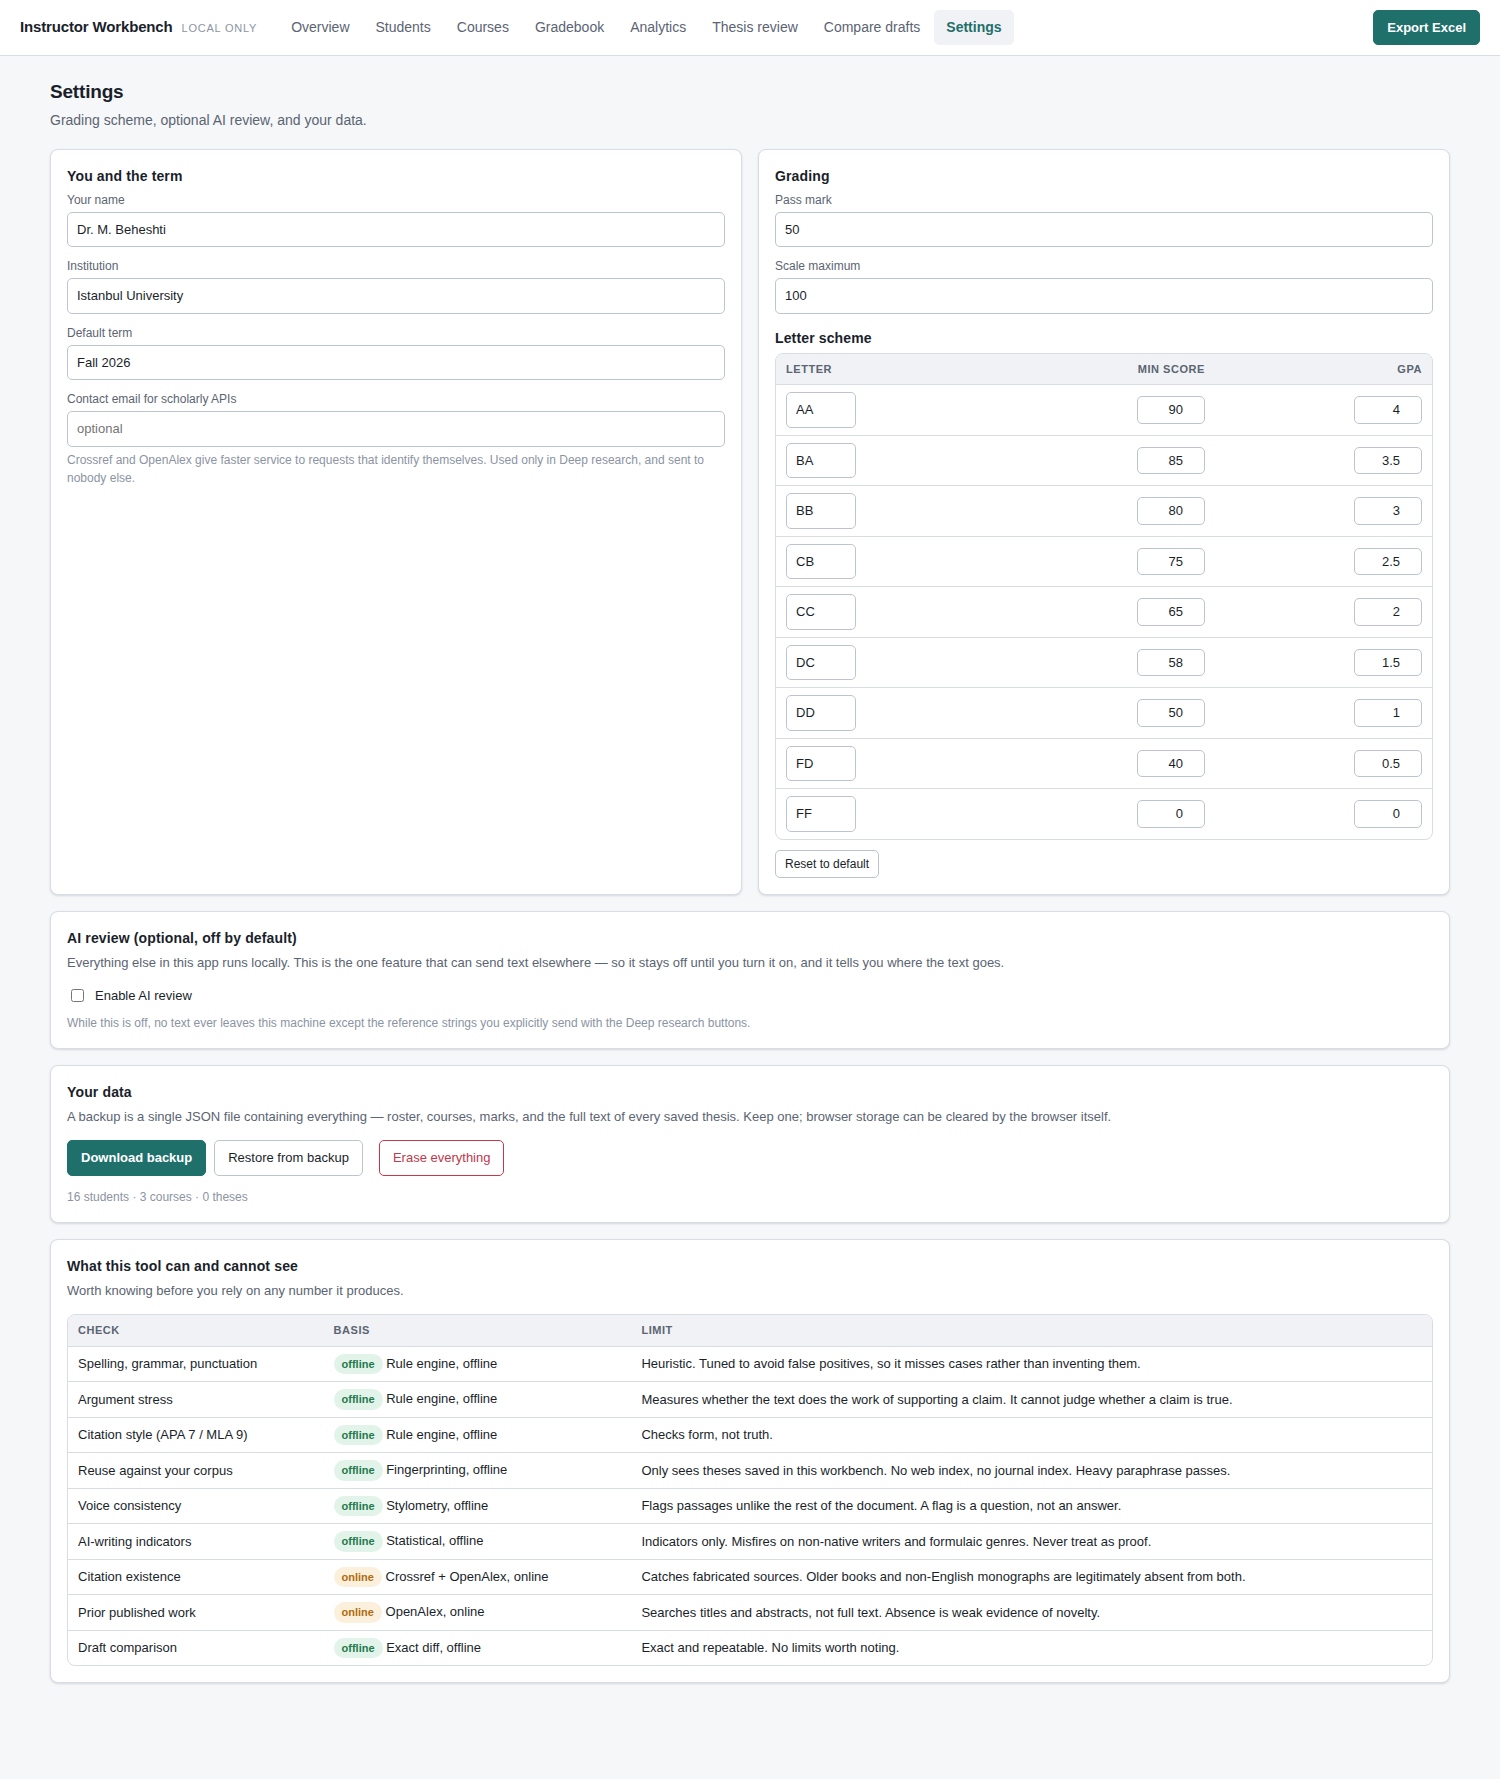
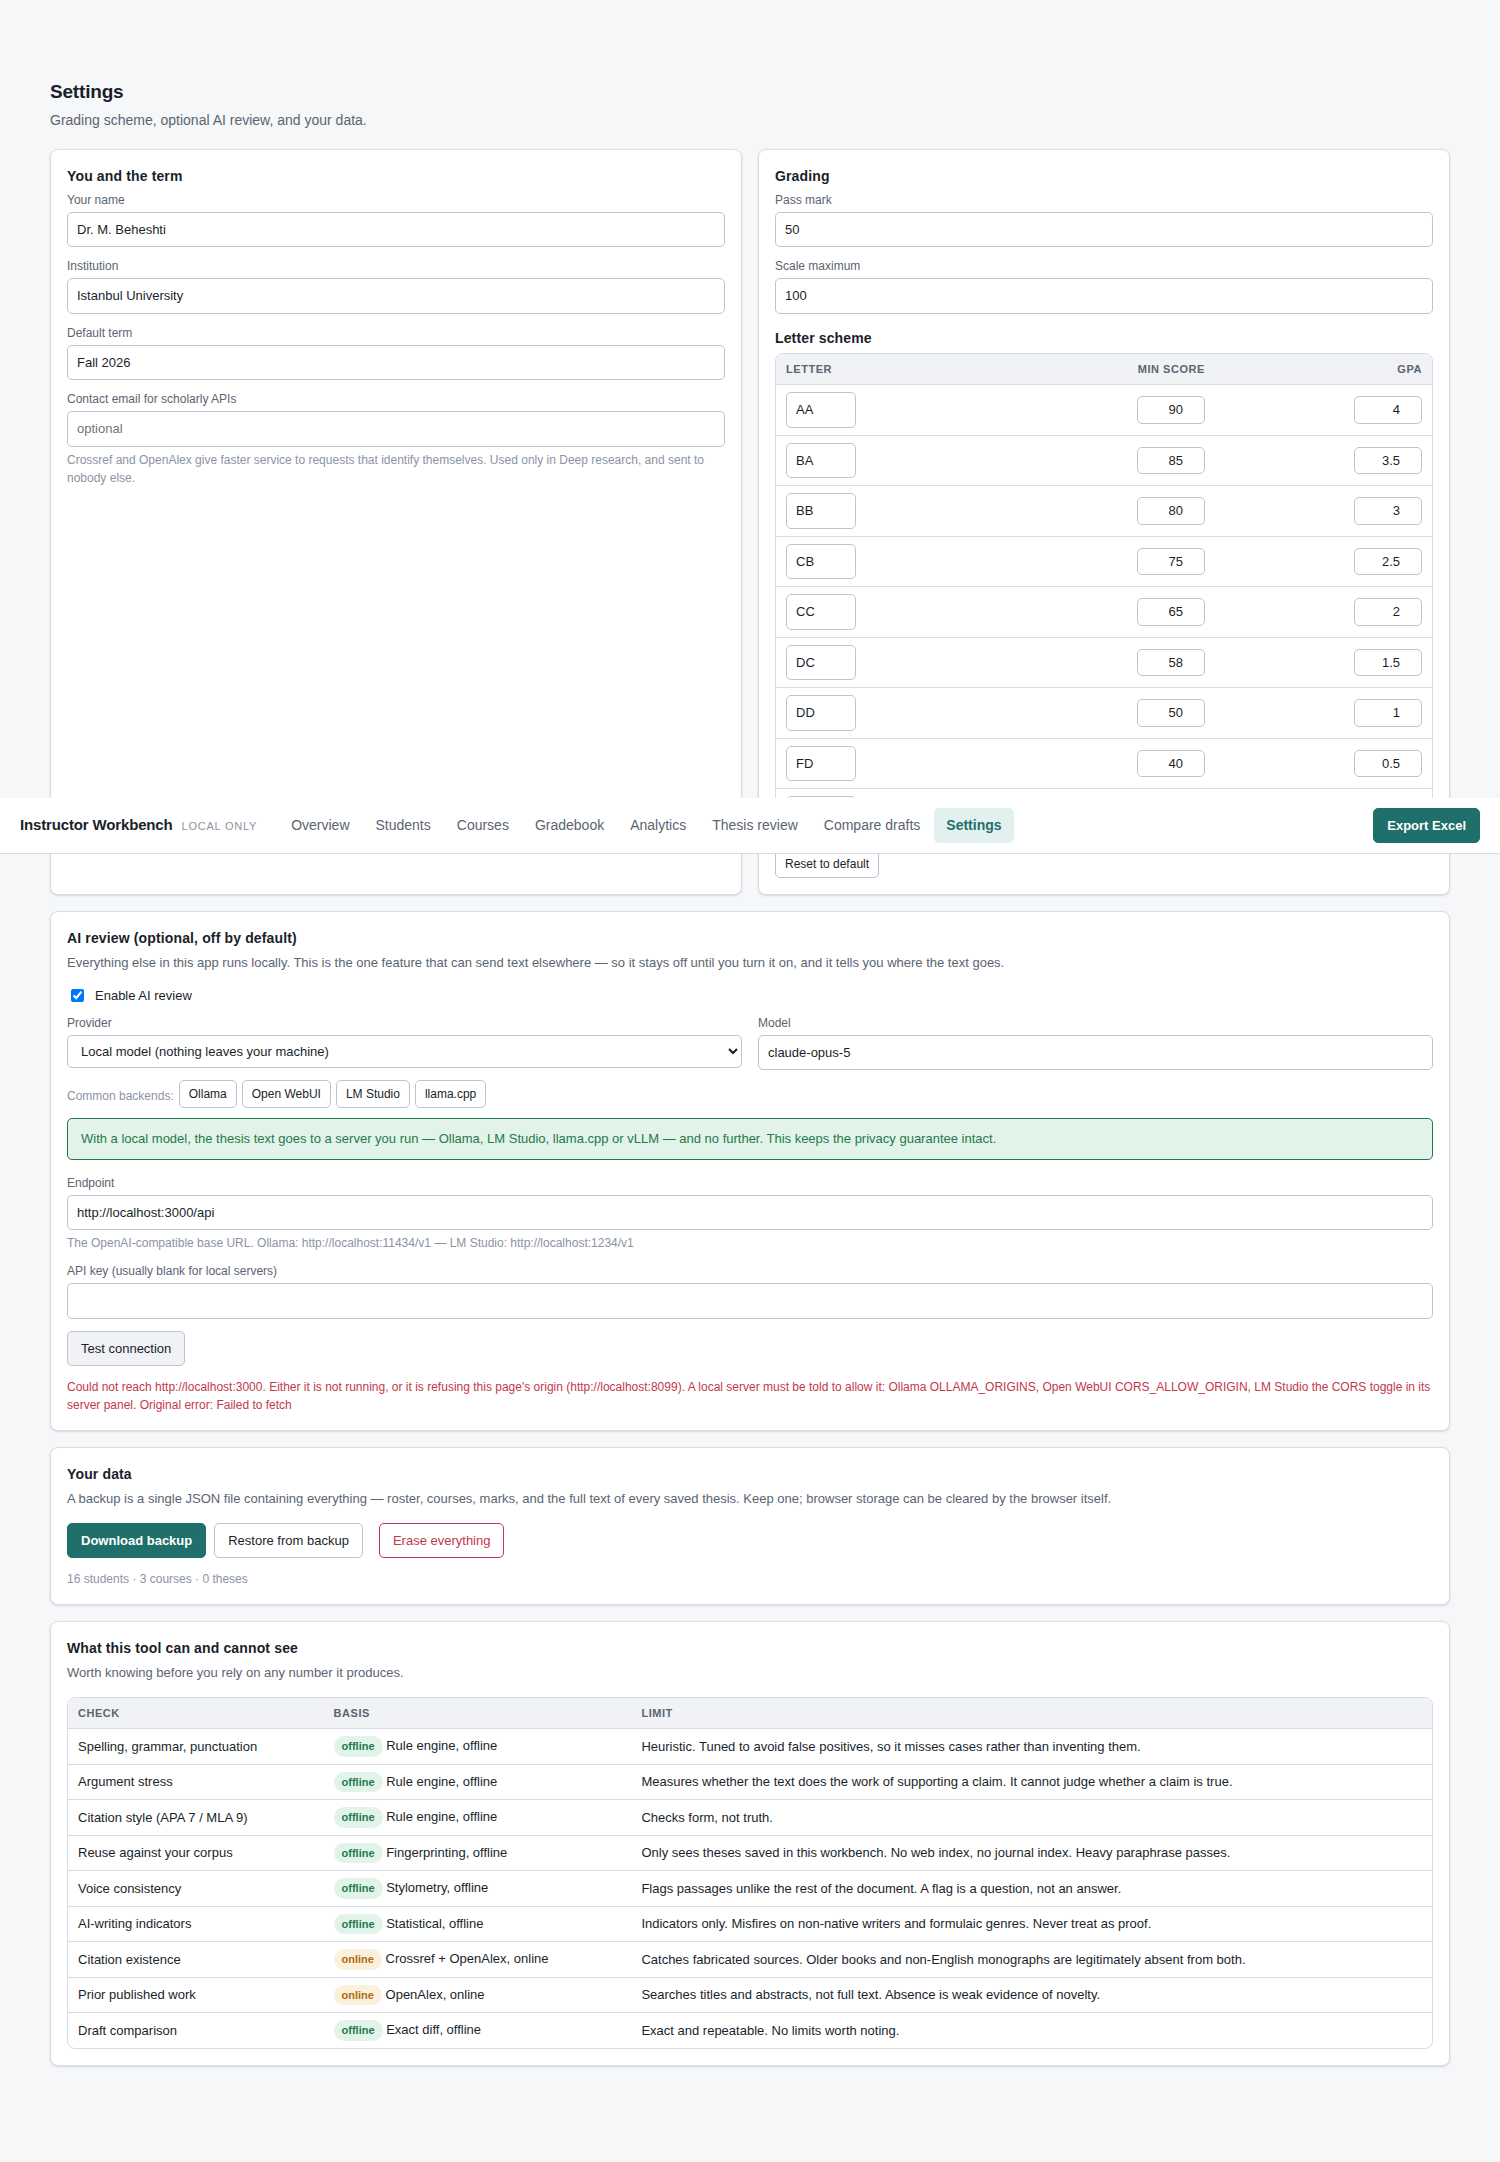
Add local-model presets and a connection test for AI review
Point-and-click endpoints for Ollama, Open WebUI, LM Studio and llama.cpp,
since each mounts its OpenAI-compatible API at a different base and getting
that wrong is the usual first failure.

Adds testConnection(), reachable from a button in Settings. It lists the
model names the server will actually accept, and distinguishes the two
failures that look identical in a browser: a server that is not running,
and one that is running but refusing this page's origin. A cross-origin
block surfaces only as "Failed to fetch" with no status, so the error now
names the origin to allow and the setting to allow it with
(OLLAMA_ORIGINS, CORS_ALLOW_ORIGIN, LM Studio's CORS toggle).

README documents the endpoints and CORS setup, and notes that Open WebUI
is useful here as a model installer and manager rather than as a feature —
pointing at Ollama directly is one fewer moving part.

Claude-Session: https://claude.ai/code/session_019SeAANDxviPXzQ4FvS58r7

diff --git a/instructor/js/analysis/ai.js b/instructor/js/analysis/ai.js
@@ -56,6 +56,102 @@ Respond with JSON only, no prose outside it, in exactly this shape:
   ]
 }`;
 
+/*
+ * Probe the configured backend and report what actually answered.
+ *
+ * Worth having because every local runtime mounts its OpenAI-compatible
+ * surface at a different base — Ollama at /v1, LM Studio at /v1, Open WebUI
+ * at /api — and the failure that matters most (a CORS rejection) surfaces in
+ * the browser as an opaque "Failed to fetch" with no status code. Naming that
+ * case explicitly saves an afternoon.
+ */
+export async function testConnection(settings, { signal } = {}) {
+  const ai = settings.ai || {};
+  if (!ai.enabled) throw new Error('AI review is switched off.');
+
+  if (ai.provider !== 'local') {
+    if (!ai.apiKey) throw new Error('No API key set.');
+    const res = await fetch(ANTHROPIC_URL, {
+      method: 'POST',
+      signal,
+      headers: {
+        'content-type': 'application/json',
+        'x-api-key': ai.apiKey,
+        'anthropic-version': ANTHROPIC_VERSION,
+        'anthropic-dangerous-direct-browser-access': 'true'
+      },
+      body: JSON.stringify({
+        model: ai.model || DEFAULT_MODEL,
+        max_tokens: 16,
+        messages: [{ role: 'user', content: 'Reply with the single word: ready' }]
+      })
+    }).catch((err) => { throw networkHint(err, ANTHROPIC_URL); });
+    if (!res.ok) throw new Error(await describeHttpError(res));
+    const data = await res.json();
+    return { ok: true, detail: `Claude API reachable — answered as ${data.model || ai.model}.` };
+  }
+
+  const base = String(ai.endpoint || '').replace(/\/+$/, '');
+  if (!base) throw new Error('No endpoint set.');
+
+  /* Ask for the model list first: it is cheap, and it tells the instructor
+     which model names this server will actually accept. */
+  let models = [];
+  try {
+    const listUrl = `${base.replace(/\/chat\/completions$/, '')}/models`;
+    const res = await fetch(listUrl, {
+      signal,
+      headers: ai.apiKey ? { authorization: `Bearer ${ai.apiKey}` } : {}
+    });
+    if (res.ok) {
+      const data = await res.json();
+      models = (data.data || data.models || []).map((m) => m.id || m.name).filter(Boolean);
+    }
+  } catch { /* not fatal — some servers do not expose /models */ }
+
+  const url = /\/chat\/completions$/.test(base) ? base : `${base}/chat/completions`;
+  const res = await fetch(url, {
+    method: 'POST',
+    signal,
+    headers: {
+      'content-type': 'application/json',
+      ...(ai.apiKey ? { authorization: `Bearer ${ai.apiKey}` } : {})
+    },
+    body: JSON.stringify({
+      model: ai.model || models[0] || 'llama3.1',
+      messages: [{ role: 'user', content: 'Reply with the single word: ready' }],
+      stream: false
+    })
+  }).catch((err) => { throw networkHint(err, url); });
+
+  if (!res.ok) throw new Error(await describeHttpError(res));
+  const data = await res.json();
+  const reply = data.choices && data.choices[0] && data.choices[0].message && data.choices[0].message.content;
+  if (!reply) throw new Error('The server answered, but with no message content. Check that the model name is one it actually serves.');
+
+  return {
+    ok: true,
+    models,
+    detail: `Answered from ${url}${models.length ? ` · ${models.length} model(s) available: ${models.slice(0, 6).join(', ')}${models.length > 6 ? '…' : ''}` : ''}`
+  };
+}
+
+/*
+ * A cross-origin block and a dead server are the same TypeError in the
+ * browser, so guess from what we know: if the host is reachable at all, the
+ * usual cause is that it has not been told to allow this page's origin.
+ */
+function networkHint(err, url) {
+  if (err.name === 'AbortError') return err;
+  let host = url;
+  try { host = new URL(url).origin; } catch { /* keep the raw string */ }
+  return new Error(
+    `Could not reach ${host}. Either it is not running, or it is refusing this page's origin (${location.origin}). ` +
+    'A local server must be told to allow it: Ollama OLLAMA_ORIGINS, Open WebUI CORS_ALLOW_ORIGIN, LM Studio the CORS toggle in its server panel. ' +
+    `Original error: ${err.message}`
+  );
+}
+
 export function isConfigured(settings) {
   const ai = settings.ai || {};
   if (!ai.enabled) return false;

diff --git a/instructor/js/views/settings.js b/instructor/js/views/settings.js
@@ -4,7 +4,7 @@ import {
 } from '../store.js';
 import { DEFAULT_LETTER_SCHEME } from '../stats.js';
 import { downloadText } from '../io/files.js';
-import { DEFAULT_MODEL } from '../analysis/ai.js';
+import { DEFAULT_MODEL, testConnection } from '../analysis/ai.js';
 
 export default function renderSettings(root, ctx) {
   const s = getState();
@@ -65,6 +65,15 @@ export default function renderSettings(root, ctx) {
             ),
             ai.provider === 'local'
               ? el('div', {},
+                  el('div', { class: 'row tight', style: 'margin-bottom:10px' },
+                    el('span', { class: 'hint', text: 'Common backends:' }),
+                    LOCAL_PRESETS.map((preset) => el('button', {
+                      class: 'sm',
+                      title: preset.note,
+                      text: preset.label,
+                      onClick: () => setAi({ endpoint: preset.endpoint })
+                    }))
+                  ),
                   banner('privacy', 'With a local model, the thesis text goes to a server you run — Ollama, LM Studio, llama.cpp or vLLM — and no further. This keeps the privacy guarantee intact.'),
                   field('Endpoint', el('input', { value: ai.endpoint || '', placeholder: 'http://localhost:11434/v1', onChange: (e) => setAi({ endpoint: e.target.value }) }),
                     'The OpenAI-compatible base URL. Ollama: http://localhost:11434/v1 — LM Studio: http://localhost:1234/v1'),
@@ -76,7 +85,15 @@ export default function renderSettings(root, ctx) {
                     'Stored in this browser’s local storage in plain text, and sent to Anthropic with each request. Anyone with access to this computer or this page can read it. Use a key you can revoke.')
                 )
           )
-        : el('p', { class: 'hint', text: 'While this is off, no text ever leaves this machine except the reference strings you explicitly send with the Deep research buttons.' })
+        : el('p', { class: 'hint', text: 'While this is off, no text ever leaves this machine except the reference strings you explicitly send with the Deep research buttons.' }),
+      ai.enabled
+        ? el('div', { style: 'margin-top:12px' },
+            el('div', { class: 'row' },
+              el('button', { id: 'ai-test', text: 'Test connection', onClick: runTest }),
+              el('span', { id: 'ai-test-result', class: 'hint' })
+            )
+          )
+        : null
     ),
 
     el('div', { class: 'card' },
@@ -149,4 +166,32 @@ function setAi(patch) {
 function patchScheme(index, patch) {
   const scheme = getState().settings.letterScheme.map((row, i) => (i === index ? { ...row, ...patch } : row));
   updateSettings({ letterScheme: scheme });
+}
+
+
+/* Base URLs for the local runtimes an instructor is most likely to already
+   have. Each mounts its OpenAI-compatible surface at a different path. */
+const LOCAL_PRESETS = [
+  { label: 'Ollama', endpoint: 'http://localhost:11434/v1', note: 'Ollama serves an OpenAI-compatible API at /v1. No key needed.' },
+  { label: 'Open WebUI', endpoint: 'http://localhost:3000/api', note: 'Open WebUI mounts its OpenAI-compatible API at /api and requires a key from Settings → Account.' },
+  { label: 'LM Studio', endpoint: 'http://localhost:1234/v1', note: 'Start the server from LM Studio’s Developer tab and enable CORS there.' },
+  { label: 'llama.cpp', endpoint: 'http://localhost:8080/v1', note: 'llama-server serves /v1 by default.' }
+];
+
+async function runTest(e) {
+  const btn = e.currentTarget;
+  const out = document.getElementById('ai-test-result');
+  btn.disabled = true;
+  out.textContent = 'Testing…';
+  out.style.color = '';
+  try {
+    const result = await testConnection(getState().settings);
+    out.textContent = result.detail;
+    out.style.color = 'var(--good)';
+  } catch (err) {
+    out.textContent = err.message;
+    out.style.color = 'var(--high)';
+  } finally {
+    btn.disabled = false;
+  }
 }

diff --git a/instructor/README.md b/instructor/README.md
@@ -147,6 +147,47 @@ Two features reach the network, both only when you press a button:
    machine, or the Claude API, which transmits the thesis text to Anthropic and
    says so in the interface.
 
+### Local model backends
+
+Settings → AI review → Local carries presets for the common runtimes. They
+differ only in where they mount their OpenAI-compatible API:
+
+| Backend | Endpoint | API key |
+|---|---|---|
+| Ollama | `http://localhost:11434/v1` | none |
+| Open WebUI | `http://localhost:3000/api` | required — Settings → Account |
+| LM Studio | `http://localhost:1234/v1` | none |
+| llama.cpp (`llama-server`) | `http://localhost:8080/v1` | none |
+
+**Open WebUI is useful here as an installer and model manager, not as a
+feature.** It bundles Ollama, gives you a GUI for pulling and switching models,
+and then exposes them on the endpoint above. If you are already comfortable
+running Ollama directly, it adds a layer you do not need — point this app at
+Ollama and skip it.
+
+**Whichever you choose, the CORS setting is the part that will bite you.** This
+app runs on its own origin and calls the model server on another, so the server
+has to be told to allow it. Otherwise the browser blocks the request before it
+is sent, and reports only "Failed to fetch":
+
+```bash
+# Ollama
+OLLAMA_ORIGINS=http://localhost:8099 ollama serve
+
+# Open WebUI (docker)
+docker run -d -p 3000:8080 \
+  -e CORS_ALLOW_ORIGIN=http://localhost:8099 \
+  -v open-webui:/app/backend/data \
+  ghcr.io/open-webui/open-webui:main
+```
+
+LM Studio has a CORS toggle in its Developer/server panel.
+
+Use **Test connection** in Settings before running a review. It reports which
+URL answered and lists the model names that server will accept, and if it
+fails it names the origin that needs allowing rather than leaving you with a
+bare network error.
+
 An API key entered for the Claude option is stored in local storage in plain
 text and is readable by anyone with access to the computer. Use a key you can
 revoke.
